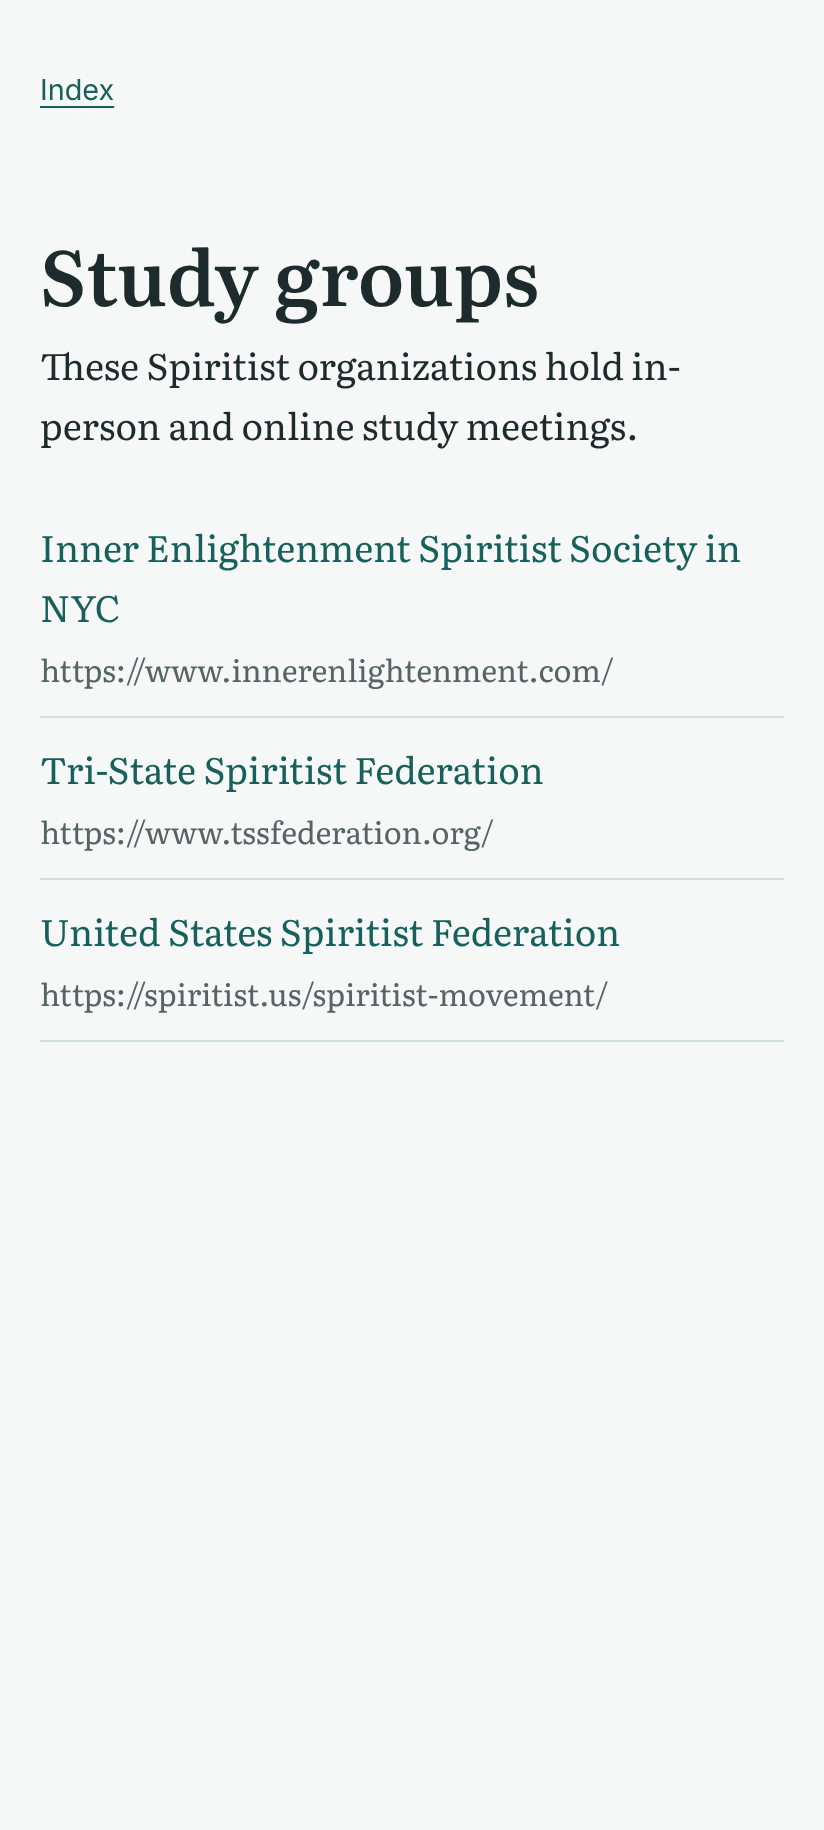
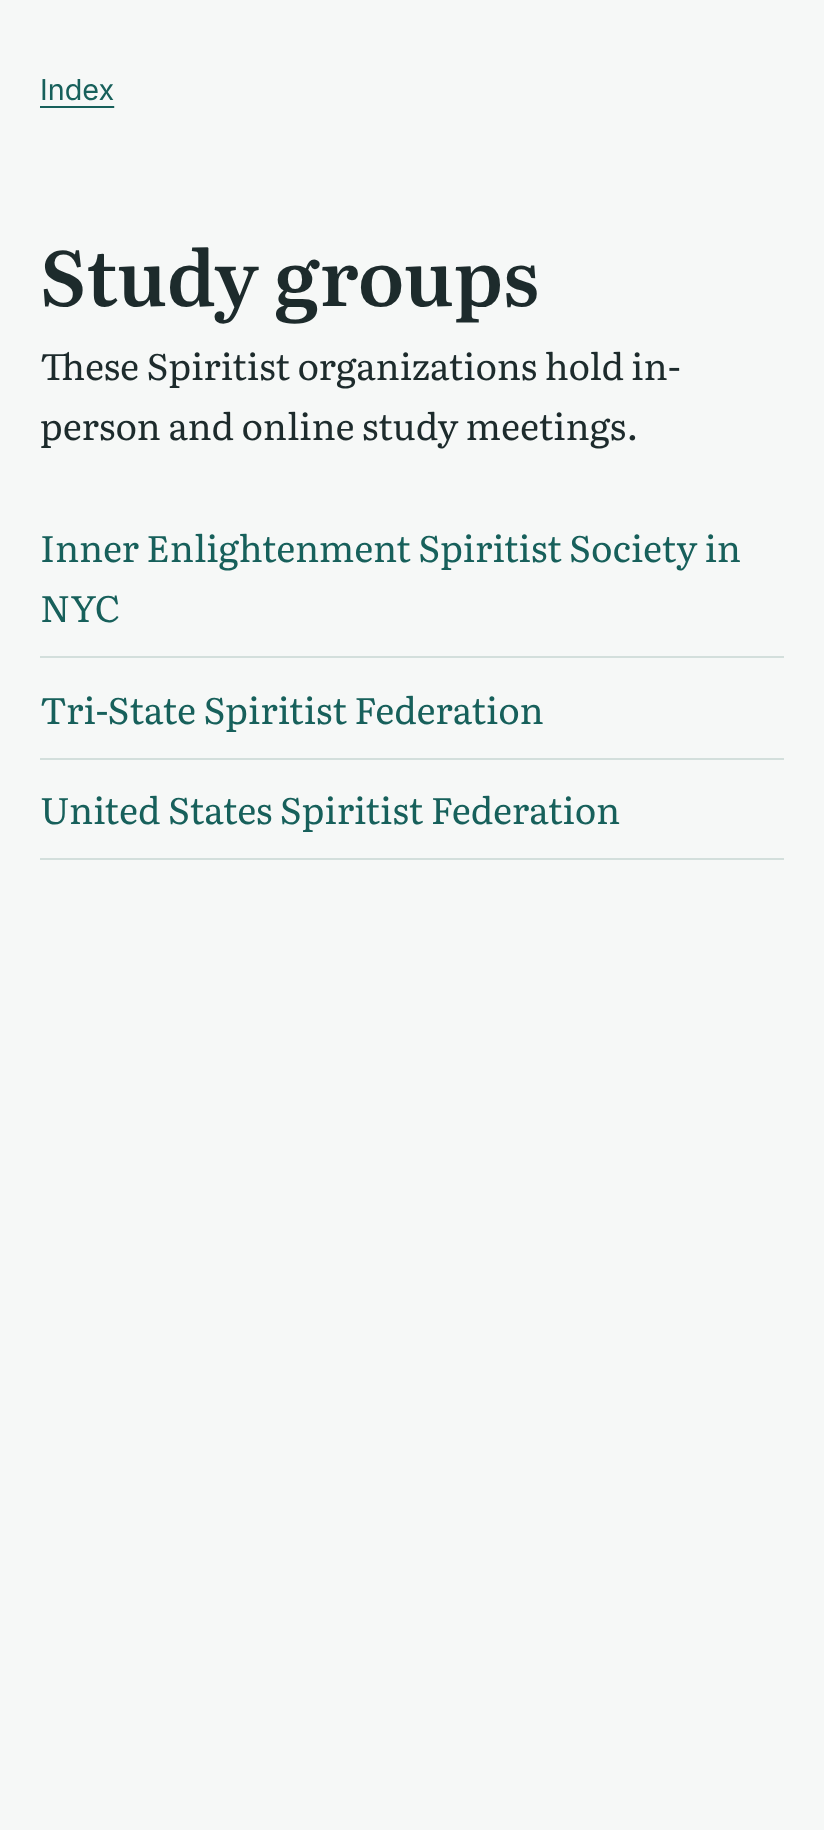
Study groups show only the organization buttons, without the web addresses (review on #104)
Claude-Session: https://claude.ai/code/session_01HDQcRv5znRo4L5WVwq4xgk

Changed region(s): [[0.0303, 0.3426, 0.7585, 0.4672], [0.0607, 0.4984, 0.7585, 0.5607]]

diff --git a/mobile/App.tsx b/mobile/App.tsx
@@ -229,10 +229,7 @@ export default function App() {
         <Text style={styles.paragraph}>{labels[settings.language].studyGroupsIntro}</Text>
         <View style={styles.actions}>
           {studyGroups.map((group) => (
-            <View key={group.url}>
-              <Action title={group.name} onPress={() => Linking.openURL(group.url)} />
-              <Text style={styles.website}>{group.url}</Text>
-            </View>
+            <Action key={group.url} title={group.name} onPress={() => Linking.openURL(group.url)} />
           ))}
           <Action title="Back" onPress={() => setScreen('message')} main />
         </View>
@@ -362,7 +359,6 @@ const styles = StyleSheet.create({
   original: { fontStyle: 'italic', color: colors.muted, borderLeftWidth: 3, borderColor: colors.rule, paddingLeft: 12 },
   translation: { fontSize: 14, fontStyle: 'italic', color: colors.muted, marginTop: 24 },
   backButton: { marginTop: 32 },
-  website: { fontSize: 14, color: colors.muted, textAlign: 'center', marginTop: 4 },
   bookTitle: { fontFamily: 'serif', fontSize: 24, fontWeight: '600', color: colors.ink, marginTop: 36, marginBottom: 8 },
   indexItem: { fontFamily: 'serif', fontSize: 18, color: colors.spring, paddingVertical: 14, borderBottomWidth: 1, borderColor: colors.rule },
 });

diff --git a/scripts/build-site.ts b/scripts/build-site.ts
@@ -110,7 +110,7 @@ class Website {
   // UC-19: links to Spiritist organizations that hold study meetings.
   studyGroupsPage(content: Content): string {
     const labels = this.labels[content.language];
-    const groups = this.studyGroups.map((g) => `<li><a href="${g.url}">${escapeHtml(g.name)}<br><small>${g.url}</small></a></li>`).join('\n');
+    const groups = this.studyGroups.map((g) => `<li><a href="${g.url}">${escapeHtml(g.name)}</a></li>`).join('\n');
     const body = this.render('study-groups', {
       index: labels.index,
       studyGroups: labels.studyGroups,

diff --git a/website/style.css b/website/style.css
@@ -33,7 +33,6 @@ ul { list-style: none; padding: 0; margin: 0; }
 li { border-bottom: 1px solid var(--rule); }
 li a { display: block; padding: 0.6rem 0; text-decoration: none; }
 li a:hover { text-decoration: underline; }
-li small { color: var(--muted); }
 
 /* The top bar: the main action on the left, the languages on the right. */
 nav { display: flex; flex-wrap: wrap; align-items: center; justify-content: space-between; gap: 0.75rem; }
